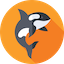
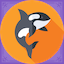
Updating some images

diff --git a/speedrun-survivors-bevy/src/menu/mod.rs b/speedrun-survivors-bevy/src/menu/mod.rs
@@ -689,7 +689,7 @@ fn wrapper_footer(parent: &mut ChildBuilder, assets: &UiAssets) {
                     MenuButtonAction::Quit,
                 ))
                 .with_children(|parent| {
-                    let icon = assets.buff_1.clone();
+                    let icon = assets.empty_slot.clone();
                     parent.spawn(ImageBundle {
                         style: button_icon_style.clone(),
                         image: icon,
@@ -720,7 +720,7 @@ fn wrapper_footer(parent: &mut ChildBuilder, assets: &UiAssets) {
                     MenuButtonAction::Play,
                 ))
                 .with_children(|parent| {
-                    let icon = assets.buff_1.clone();
+                    let icon = assets.empty_slot.clone();
                     parent.spawn(ImageBundle {
                         style: button_icon_style,
                         image: icon,

diff --git a/speedrun-survivors-bevy/src/plugins/assets.rs b/speedrun-survivors-bevy/src/plugins/assets.rs
@@ -13,7 +13,7 @@ use strum::IntoEnumIterator;
 pub struct UiAssets {
     pub font_primary: Handle<Font>,
     pub font_secondary: Handle<Font>,
-    pub buff_1: UiImage,
+    pub empty_slot: UiImage,
     pub checkbox_o: UiImage,
     pub checkbox_x: UiImage,
     pub weapons: HashMap<WeaponType, UiImage>,
@@ -79,7 +79,7 @@ fn setup(
     commands.insert_resource(UiAssets {
         font_primary: asset_server.load("ui/crumbledpixels.ttf"),
         font_secondary: asset_server.load("ui/jupiterc.ttf"),
-        buff_1: asset_server.load("ui/buff_1.png").into(),
+        empty_slot: asset_server.load("ui/empty_slot.png").into(),
         checkbox_o: asset_server.load("ui/checkbox_o.png").into(),
         checkbox_x: asset_server.load("ui/checkbox_x.png").into(),
         weapons,

diff --git a/speedrun-survivors-bevy/src/plugins/hud.rs b/speedrun-survivors-bevy/src/plugins/hud.rs
@@ -266,7 +266,7 @@ fn spawn_ability_slots(
     for slot in ability_slots {
         let img = match slot {
             SlotType::Ability(ability) => assets.abilities.get(&ability).unwrap().clone(),
-            _ => assets.buff_1.clone(),
+            _ => assets.empty_slot.clone(),
         };
         spawn_slot(parent, img, slot);
     }

diff --git a/speedrun-survivors-bevy/src/data/item.rs b/speedrun-survivors-bevy/src/data/item.rs
@@ -13,7 +13,7 @@ impl ItemType {
     /// The path to the ui image for this item
     pub fn get_ui_image_name(&self) -> &str {
         match self {
-            _ => "ui/buff_1.png",
+            _ => "ui/empty_slot.png",
         }
     }
 
